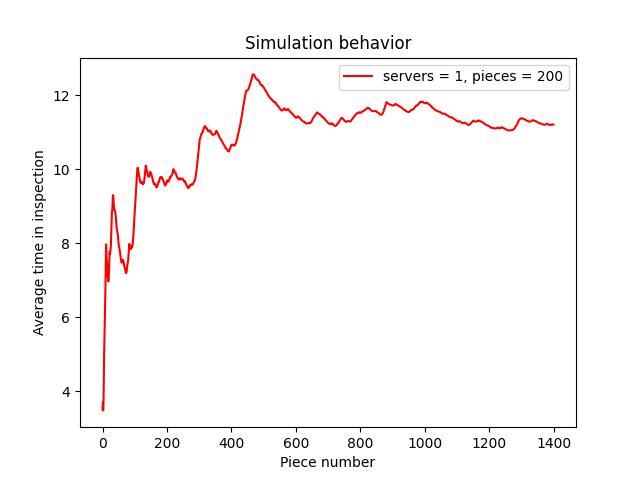
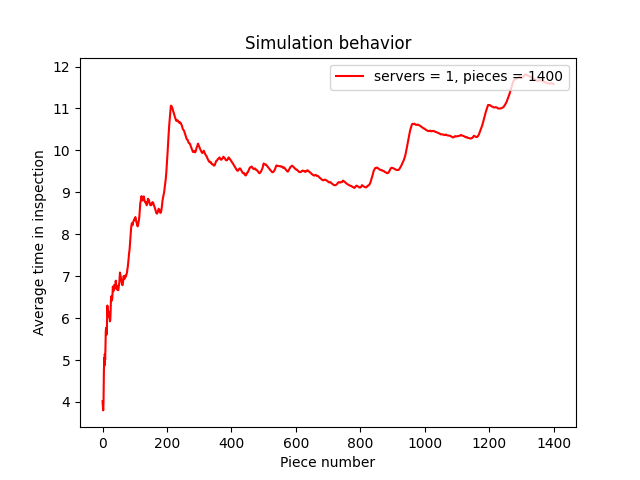
Errores de sintaxis y grafica actualizada

diff --git a/simulations.py b/simulations.py
@@ -8,7 +8,7 @@ def get_n_rands(n):
         rands.append(rand_mix(from_txt='txts/poker_variables'))
     return tuple(rands)
 
-def run_simulation(n_pieces, l, mean, ds):
+def run_simulation(n_pieces, l, mean, sd):
     '''
     Funcion para simular una linea de produccion a partir de una cantidad
     de piezas
@@ -20,7 +20,7 @@ def run_simulation(n_pieces, l, mean, ds):
         # Random values
         r, u1, u2 = get_n_rands(3) 
         exp_t = dist_exponential(l, r)
-        norm_t = dist_normal(u1, u2, mean, ds)
+        norm_t = dist_normal(u1, u2, mean, sd)
         # Arrival vals
         arrival = last_arrival + exp_t
         last_arrival = arrival

diff --git a/mixto.py b/mixto.py
@@ -39,7 +39,7 @@ def rand_mix(reset_vars=False, from_txt='txts/variables'):
             f.writelines(lines[1:])
         del rand_mix.count
     # Regresa la variable dividiendo Xn + 1 entre m
-    return (Xn1 / rand_mix.m) +  + 1e-308
+    return (Xn1 / rand_mix.m) + 1e-308
 
 
 def use_mean_test(sample_size):
